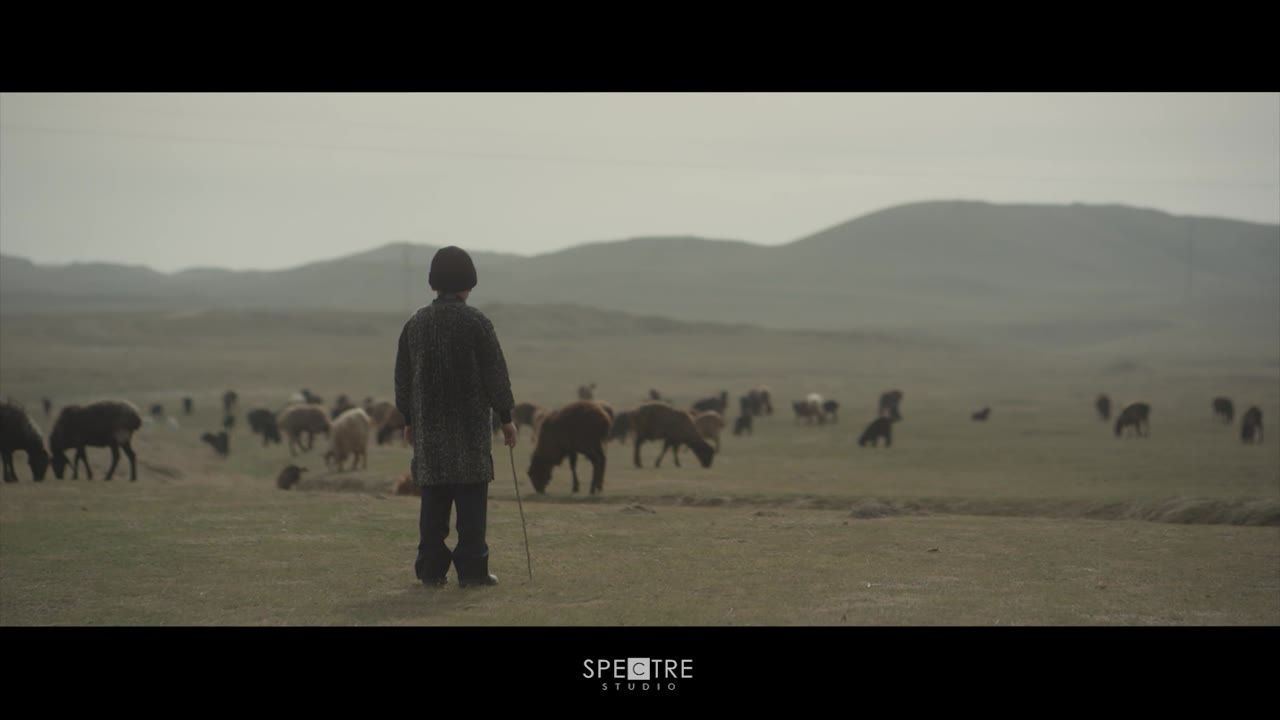
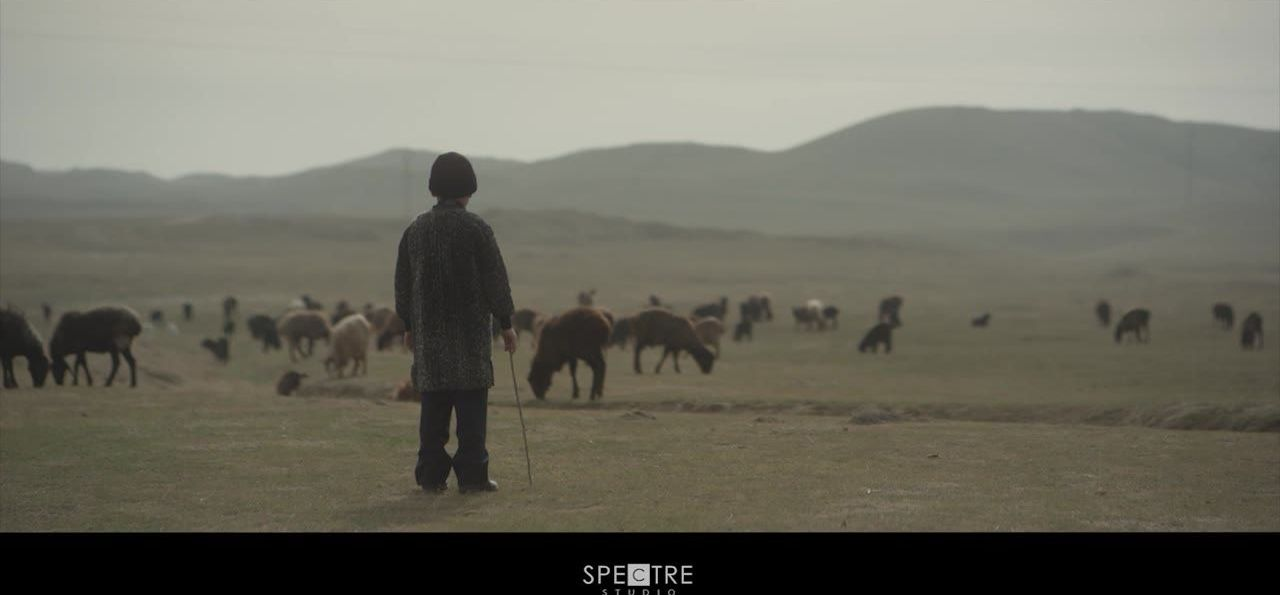
Reorder featured works, crop letterbox bars from stills
Claude-Session: https://claude.ai/code/session_01ERJFjQR11ezcgaycsTS4No

diff --git a/assets/js/data.js b/assets/js/data.js
@@ -82,16 +82,19 @@ window.SITE = {
     milliy:     { ru: "Демократическая партия «Миллий тикланиш»", uz: "«Milliy tiklanish» demokratik partiyasi", en: "Milliy Tiklanish Democratic Party" }
   },
 
+  // Избранное на главной — в этом порядке
+  featured: ["hoshimov", "uch-qahramon", "imom-al-buxoriy", "vijdon-saratoni", "abdulla-oripov", "whispers-of-wisdom"],
+
   // type: feature | doc | series | promo
   // Порядок здесь = порядок на странице «Работы» (сначала новые).
   projects: [
     {
-      id: "hoshimov", year: 2026, type: "feature", status: "production", featured: true,
+      id: "hoshimov", year: 2026, type: "feature", status: "production",
       title: { ru: "Хошимов", uz: "Hoshimov", en: "Hoshimov" },
       clients: ["cinema", "uzbekfilm"]
     },
     {
-      id: "whispers-of-wisdom", year: 2025, type: "series", featured: true,
+      id: "whispers-of-wisdom", year: 2025, type: "series",
       title: { ru: "Эхо просвещения", uz: "Whispers of Wisdom", en: "Whispers of Wisdom" },
       note: {
         ru: "С участием лауреата премии «Оскар» сэра Бена Кингсли",
@@ -103,14 +106,14 @@ window.SITE = {
       clients: ["cisc"]
     },
     {
-      id: "imom-al-buxoriy", year: 2025, type: "doc", featured: true,
+      id: "imom-al-buxoriy", year: 2025, type: "doc",
       title: { ru: "Имом ал-Бухорий мажмуаси", uz: "Imom al-Buxoriy majmuasi", en: "Imam al-Bukhari Complex" },
       video: { file: "assets/video/imom-al-buxoriy.mp4" },
       still: "assets/img/stills/imom-al-buxoriy.jpg",
       clients: ["cisc", "docstudio"]
     },
     {
-      id: "uch-qahramon", year: 2024, type: "feature", featured: true,
+      id: "uch-qahramon", year: 2024, type: "feature",
       title: { ru: "Уч Кахрамон", uz: "Uch qahramon", en: "Three Heroes" },
       video: { file: "assets/video/uch-qahramon.mp4" },
       still: "assets/img/stills/uch-qahramon.jpg",
@@ -139,7 +142,7 @@ window.SITE = {
       clients: ["tiiame"]
     },
     {
-      id: "chilonzor", year: 2023, type: "doc", featured: true,
+      id: "chilonzor", year: 2023, type: "doc",
       title: { ru: "Чиланзар: Душа столицы", uz: "Chilonzor: Poytaxt qalbi", en: "Chilanzar: Soul of the Capital" },
       clients: ["chilanzar", "cinema", "docstudio"]
     },
@@ -152,11 +155,11 @@ window.SITE = {
       id: "vijdon-saratoni", year: 2022, type: "doc",
       title: { ru: "Виждон саратони", uz: "Vijdon saratoni", en: "Cancer of Conscience" },
       video: { file: "assets/video/vijdon-saratoni.mp4" },
-      still: "assets/img/stills/vijdon-saratoni.jpg",
+      still: "assets/img/stills/vijdon-saratoni.jpg", stillPos: "65% 50%",
       clients: ["sgb", "anticorr"]
     },
     {
-      id: "bir-kunlik-toy", year: 2021, type: "feature", featured: true,
+      id: "bir-kunlik-toy", year: 2021, type: "feature",
       title: { ru: "Бир кунлик туй", uz: "Bir kunlik to'y", en: "A One-Day Wedding" },
       clients: ["cinema"]
     },
@@ -176,7 +179,7 @@ window.SITE = {
       id: "abdulla-oripov", year: 2021, type: "doc",
       title: { ru: "Абдулла Орипов", uz: "Abdulla Oripov", en: "Abdulla Aripov" },
       video: { file: "assets/video/abdulla-oripov.mp4" },
-      still: "assets/img/stills/abdulla-oripov.jpg",
+      still: "assets/img/stills/abdulla-oripov.jpg", stillPos: "30% 50%",
       clients: ["cinema", "docstudio", "tiiame"]
     },
     {

diff --git a/assets/js/app.js b/assets/js/app.js
@@ -171,7 +171,7 @@
     var billing = clientNames(p).join(" · ");
     return (
       '<div class="poster' + (p.still ? " poster--still" : "") + '" aria-hidden="true">' +
-        (p.still ? '<img class="poster__still" src="' + esc(p.still) + '" alt="" loading="lazy">' : "") +
+        (p.still ? '<img class="poster__still" src="' + esc(p.still) + '" alt="" loading="lazy"' + (p.stillPos ? ' style="object-position:' + esc(p.stillPos) + '"' : "") + ">" : "") +
         '<div class="poster__top mono"><span>Spectre Studio</span><span>' + p.year + "</span></div>" +
         "<div>" +
           '<div class="poster__title">' + esc(L(p.title)) + "</div>" +
@@ -264,7 +264,7 @@
     var reelBtn = reel && (reel.file || embedURL(reel))
       ? '<button type="button" class="btn" data-reel><i class="play-icon"></i>' + t("hero.cta.reel") + "</button>"
       : "";
-    var featured = projects.filter(function (p) { return p.featured; });
+    var featured = SITE.featured.map(project).filter(Boolean);
 
     return (
       '<section class="hero">' +

diff --git a/README.md b/README.md
@@ -13,9 +13,9 @@
 | Видео к фильму | `video: { youtube: "ID" }` или `video: { vimeo: "ID" }` у нужного проекта |
 | Постер фильма | `poster: "assets/img/posters/имя.jpg"` (пока постера нет, сайт рисует его сам) |
 | Короткое описание фильма | `logline: { ru: "...", uz: "...", en: "..." }` |
-| Избранное на главной | `featured: true` |
+| Избранное на главной | список `featured` (порядок = порядок на главной) |
 | Шоурил на главной | `showreel: { youtube: "ID" }` / `{ vimeo: "ID" }` / `{ file: "assets/video/showreel.mp4" }` |
-| Контакты | `contacts` (сейчас там демо-данные) |
+| Контакты | `contacts` |
 | Текст об основателе | `founder` |
 | Заказчики | `clients` |
 
